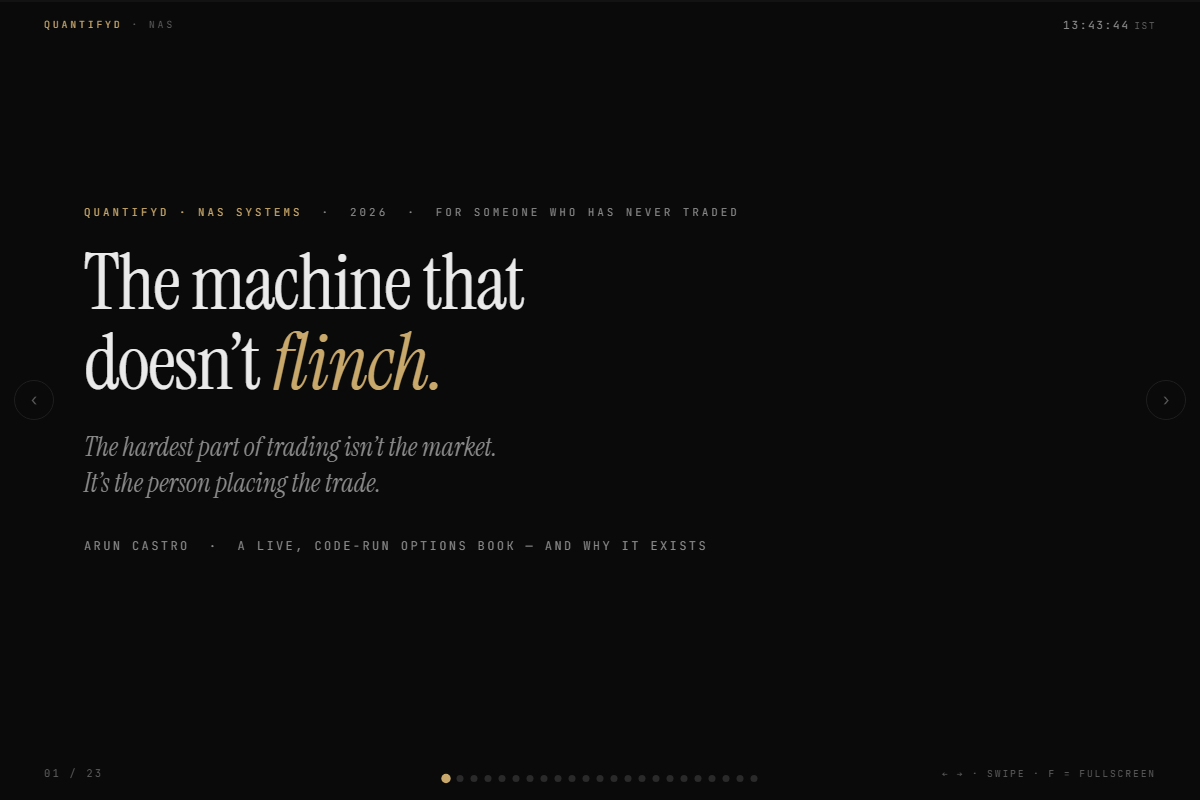
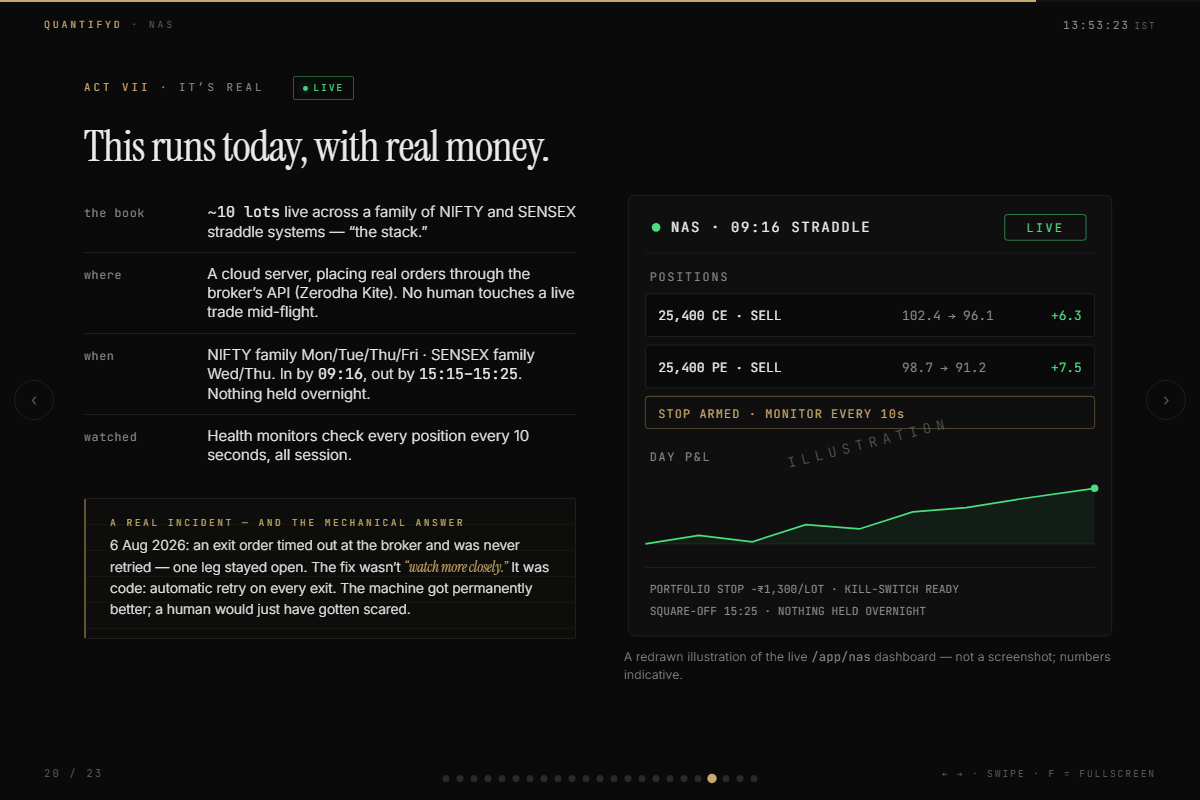
Portfolio card now showcases the live NAS options trading system itself, with the explainer deck as its link

diff --git a/js/project-loader.js b/js/project-loader.js
@@ -58,7 +58,8 @@
     reppit: 'Mobile App',
     noteapp: 'Web App',
     primmo: 'AI / Voice',
-    'portfolio-optimization': 'Automation'
+    'portfolio-optimization': 'Automation',
+    'nas-mechanical-trading': 'Trading Automation'
   };
 
   // Fallback category mapping
